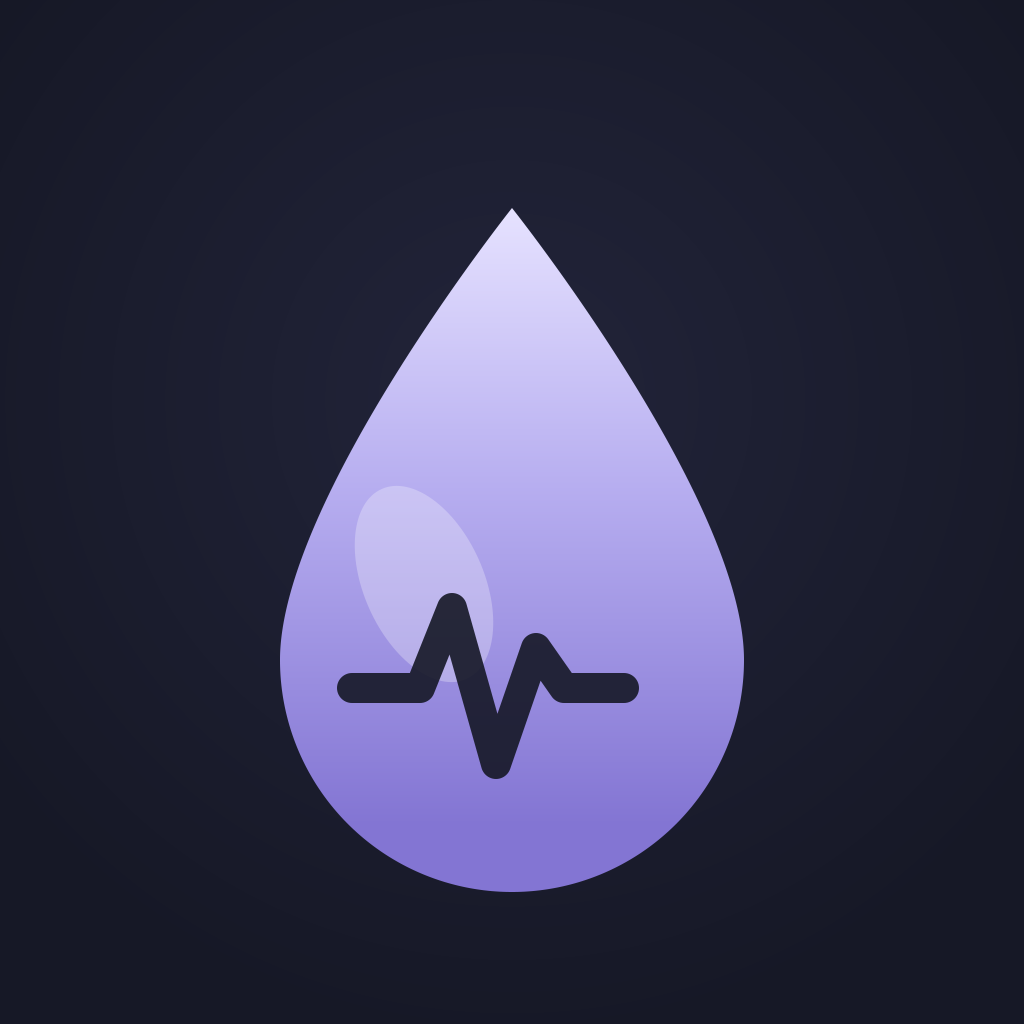
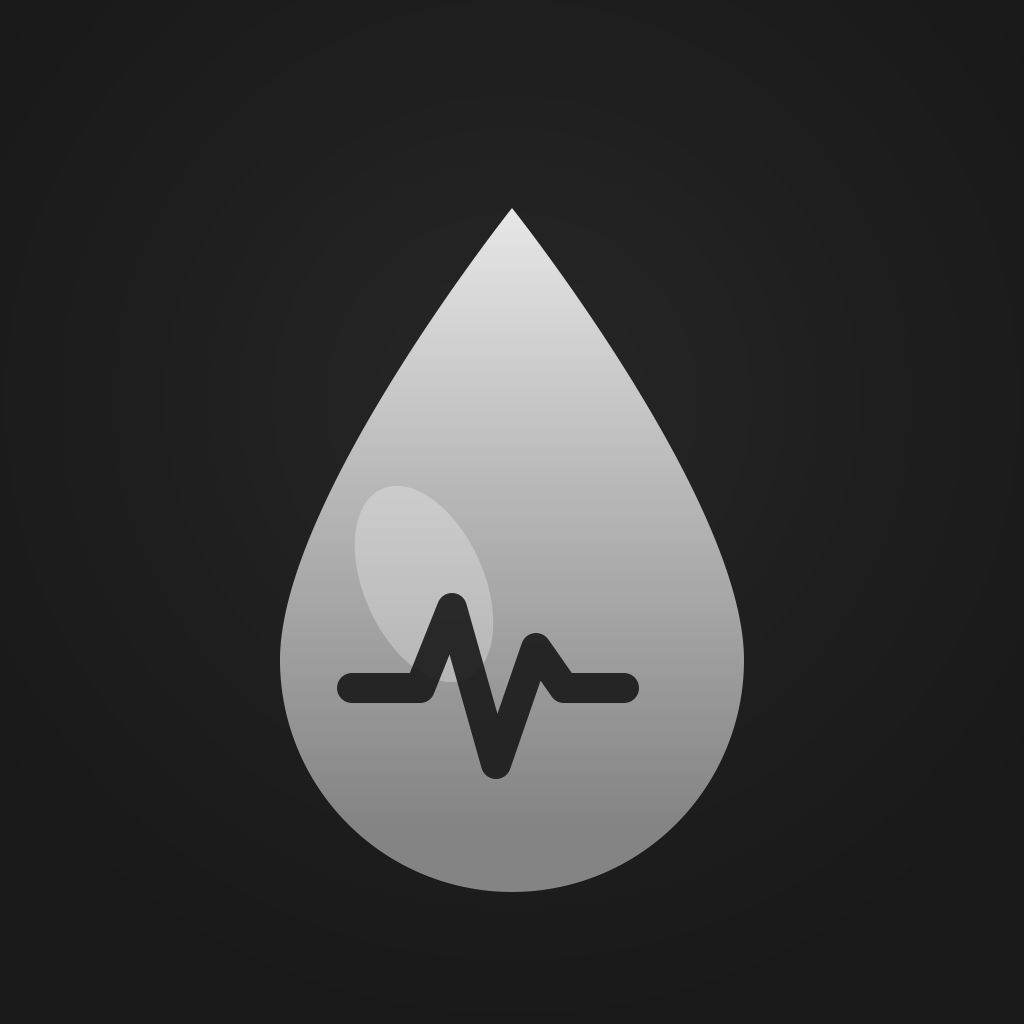
feat(ios): экспорт лога → UIActivityViewController + ч/б иконка Android dev-сборки
- iOS: перехватываем exportLog в плагине ДО движка → редактированный NDJSON во временный файл →
  UIActivityViewController (Telegram/почта/Файлы). Зеркало Android; механизм сбора телеметрии от волонтёров.
- Иконка: fc495d9 обесцветил только iOS — Android оставался цветным. Обесцветил исходник resources/icon.png
  и все mipmap-*/ic_launcher* (яркостно, с сохранением альфы) → dev-сборка ч/б на обоих ОС, отличима от боевой.

Android APK пересобран+переставлен (ч/б). iOS build ✅.

Changed region(s): [[0.25, 0.2188, 0.75, 0.875]]

diff --git a/app/ios/App/App/SugarLifeBridgePlugin.swift b/app/ios/App/App/SugarLifeBridgePlugin.swift
@@ -1,6 +1,7 @@
 import Foundation
 import Capacitor
 import CoreBluetooth
+import UIKit
 import SugarLifeKit
 
 /// Нативная сторона моста: держит KMP-движок (SugarLifeEngine) + реальные драйверы через колбэк-мосты
@@ -229,10 +230,29 @@ public class SugarLifeBridgePlugin: CAPPlugin, CAPBridgedPlugin {
 
     @objc func sendIntent(_ call: CAPPluginCall) {
         let json = call.getString("json") ?? ""
+        // Экспорт лога перехватываем ДО движка (как Android): редактированный NDJSON → share sheet ОС.
+        if json.contains("\"exportLog\"") { exportAndShare(); return call.resolve(["json": "{\"accepted\":true}"]) }
         if json.contains("\"startScan\"") { ensureProvider(); scanner.start() }
         else if json.contains("\"stopScan\"") { scanner.stop() }
         else if json.contains("\"addDevice\"") || json.contains("\"addDiscovered\"") { ensureProvider() }
         call.resolve(["json": engine?.sendIntent(json: json) ?? "{\"accepted\":false,\"error\":\"engine not ready\"}"])
+    }
+
+    /// Экспорт диагностического лога (редактированный NDJSON из движка) → UIActivityViewController
+    /// (Telegram/почта/Файлы). Зеркало Android exportAndShare — механизм сбора телеметрии от волонтёров.
+    private func exportAndShare() {
+        guard let ndjson = engine?.exportLog() else { return }
+        let url = FileManager.default.temporaryDirectory.appendingPathComponent("sugarlife-log.ndjson")
+        do { try ndjson.write(to: url, atomically: true, encoding: .utf8) } catch { return }
+        DispatchQueue.main.async { [weak self] in
+            guard let vc = self?.bridge?.viewController else { return }
+            let av = UIActivityViewController(activityItems: [url], applicationActivities: nil)
+            // iPad: share sheet — popover, нужен якорь (иначе краш).
+            av.popoverPresentationController?.sourceView = vc.view
+            av.popoverPresentationController?.sourceRect = CGRect(x: vc.view.bounds.midX, y: vc.view.bounds.midY, width: 0, height: 0)
+            av.popoverPresentationController?.permittedArrowDirections = []
+            vc.present(av, animated: true)
+        }
     }
 
     @objc func query(_ call: CAPPluginCall) { call.resolve(["json": engine?.query(json: call.getString("json") ?? "") ?? "{\"glucose\":[],\"treatments\":[]}"]) }
